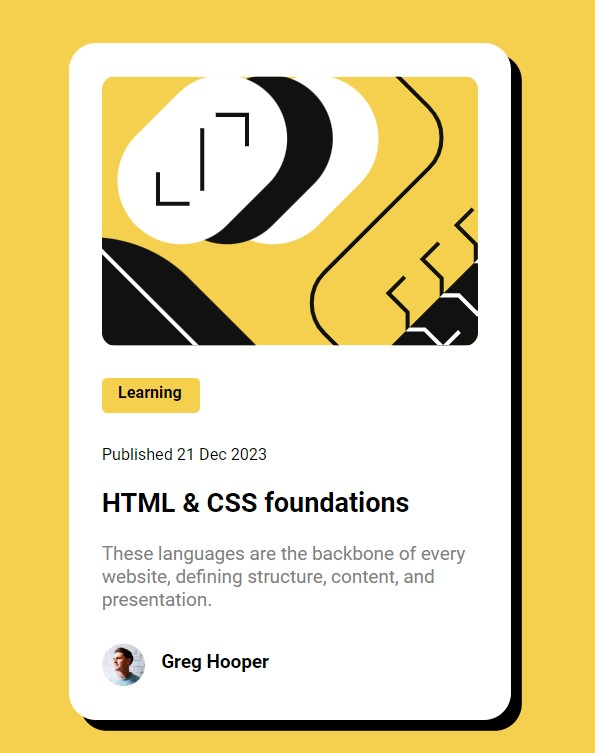
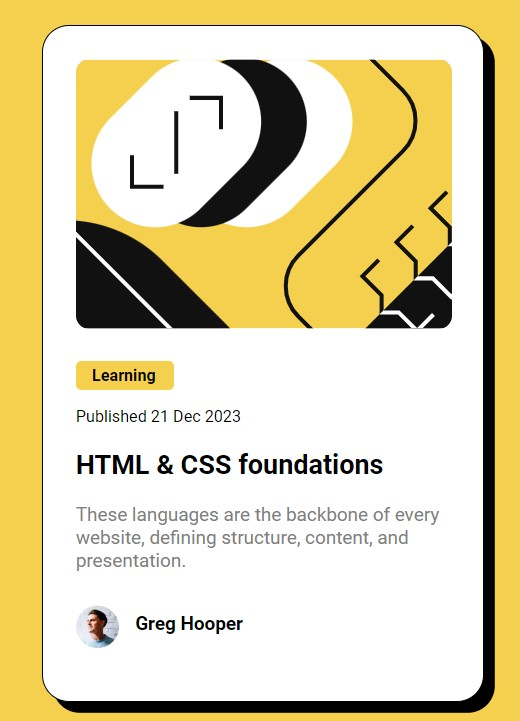
Add margin bottom p and change screenshot

diff --git a/scss/styles.scss b/scss/styles.scss
@@ -67,11 +67,13 @@ body {
 
             h1 + p {
                 font-size: $font-size-12;
+                margin-bottom: 12px;
             }
 
             h2 {
                 font-size: $font-size-20;
                 font-weight: bolder;
+
                 @include desktop {
                     &:hover {
                         color: $body-color;

diff --git a/css/styles.css b/css/styles.css
@@ -59,6 +59,7 @@ body main .main-content h1 {
 }
 body main .main-content h1 + p {
   font-size: 75%;
+  margin-bottom: 12px;
 }
 body main .main-content h2 {
   font-size: 125%;
